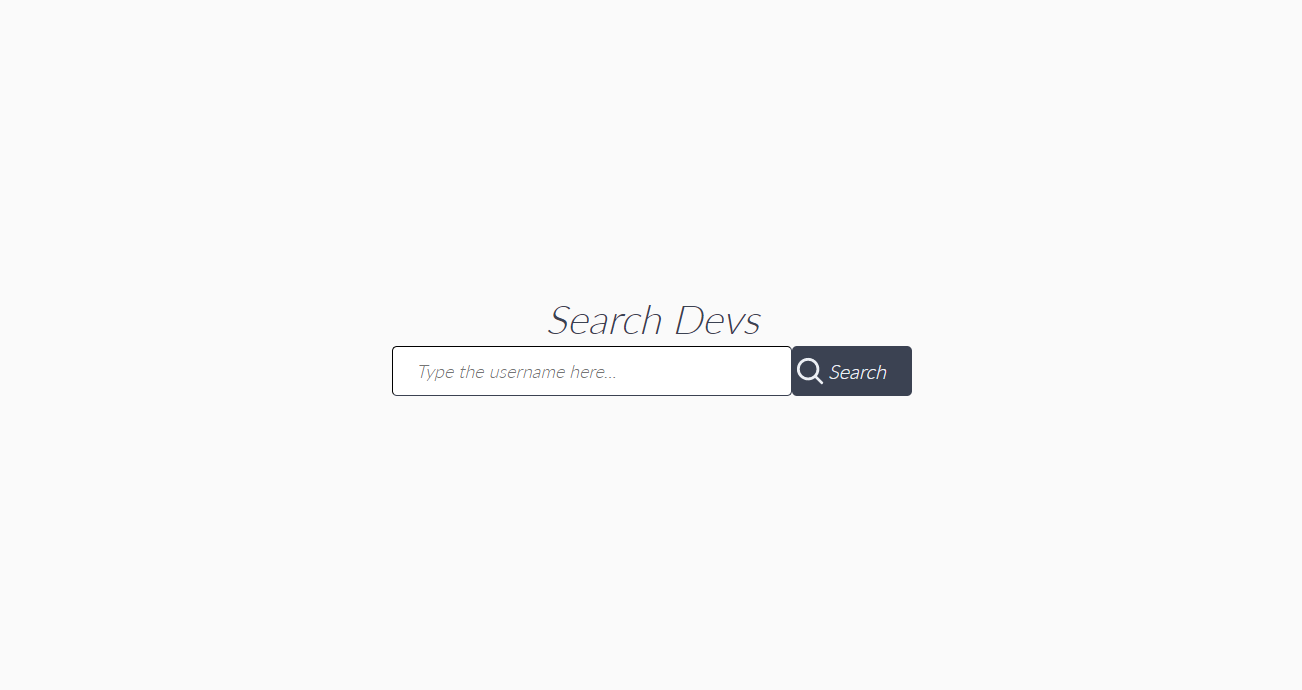
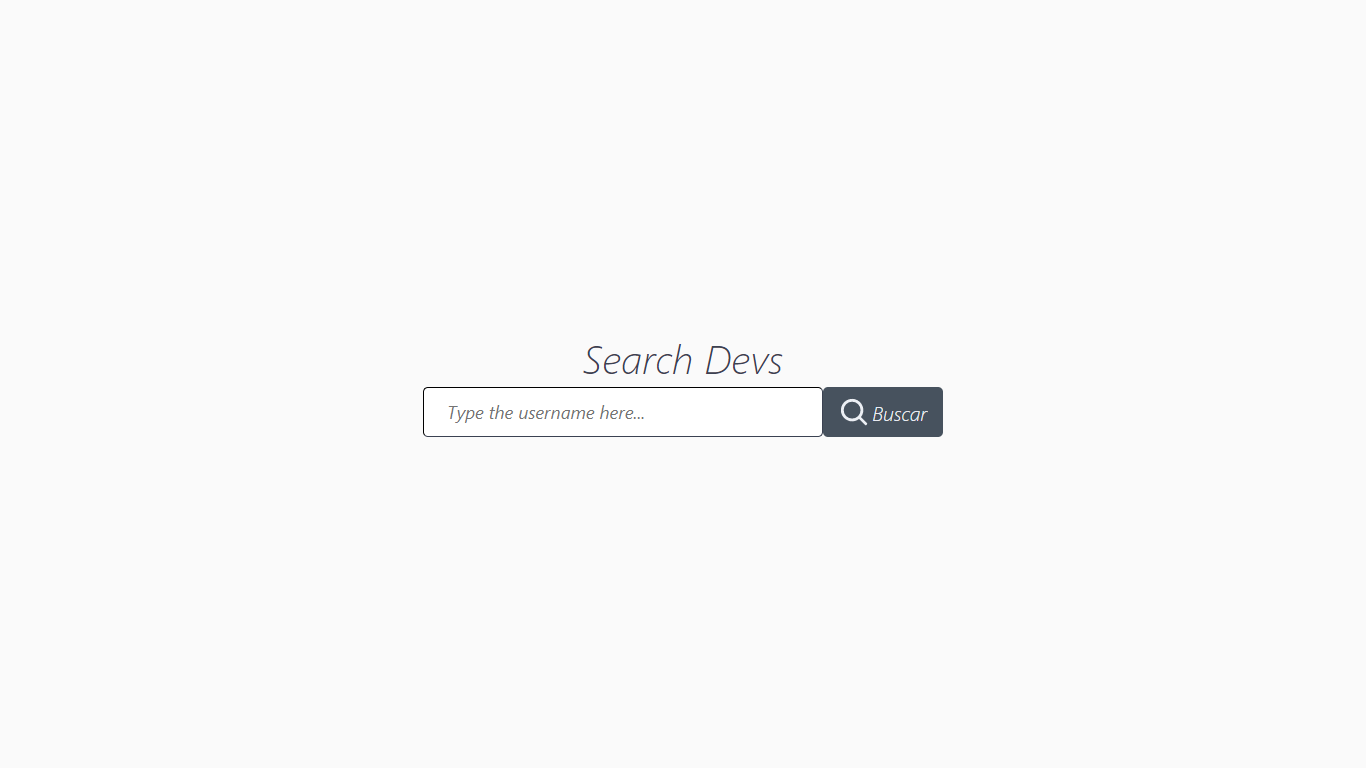
lint command enabled, screenshots updated

Changed region(s): [[0.3072, 0.4261, 0.7066, 0.5783]]

diff --git a/src/pages/Profile/index.tsx b/src/pages/Profile/index.tsx
@@ -4,7 +4,7 @@ import { useEffect, useState } from "react";
 import { useParams } from "react-router-dom";
 import { findRepositories } from "services/RepositoryService";
 import { findUserData } from "services/UserService";
-import { countStars, formatUpdatedAt, sortRepos } from "utils";
+import { countStars, sortRepos } from "utils";
 import * as S from "./styles";
 
 const Profile = () => {
@@ -20,12 +20,12 @@ const Profile = () => {
   const [repositories, setRepositories] = useState<RepositoryProps[]>([]);
 
   useEffect(() => {
-    findRepositories(username).catch(({data})=>
-      setRepositories((repositories) => [...repositories, data])
-    )
-    findUserData(username).catch(({data})=>
-      setUserData(data)
-    );
+    findRepositories(username).then((repoList) => {
+      repoList.forEach((repo: RepositoryProps) =>
+        setRepositories((repositories) => [...repositories, repo])
+      );
+    });
+    findUserData(username).then((user) => setUserData(user));
   }, []);
 
   useEffect(() => {

diff --git a/src/services/UserService.ts b/src/services/UserService.ts
@@ -2,10 +2,17 @@ import { UserProps } from "components/LeftMenu";
 import { axios } from "./axios";
 
 export const findUserData = async (username: string) => {
+  let user: UserProps = {
+    avatar: "",
+    devLogin: "",
+    devName: "",
+    followers: 0,
+    following: 0,
+  }
   await axios
     .get(`/users/${username}`)
     .then(({ data }) => {
-      const user: UserProps = {
+      user = {
         avatar: data.avatar_url,
         devLogin: data.login,
         devName: data.name,
@@ -19,7 +26,7 @@ export const findUserData = async (username: string) => {
         website: data.blog,
       };
 
-      return user;
+
     })
-    .catch(() => null);
+    return user;
 };

diff --git a/public/index.html b/public/index.html
@@ -5,11 +5,13 @@
     <link rel="icon" href="%PUBLIC_URL%/favicon.ico" />
     <meta name="viewport" content="width=device-width, initial-scale=1" />
     <meta name="theme-color" content="#000000" />
-    <meta
-      name="description"
-      content="Find dev informations"
-    />
+    <meta name="description" content="Find dev informations" />
     <link rel="manifest" href="%PUBLIC_URL%/manifest.json" />
+    <link rel="preconnect" href="https://fonts.gstatic.com" />
+    <link
+      href="https://fonts.googleapis.com/css2?family=Lato:ital,wght@0,300;1,300&display=swap"
+      rel="stylesheet"
+    />
 
     <title>Search Devs</title>
   </head>

diff --git a/src/styles/global.ts b/src/styles/global.ts
@@ -1,8 +1,6 @@
 import { createGlobalStyle, css } from "styled-components";
 
 const GlobalStyles = createGlobalStyle`
-@import url('https://fonts.googleapis.com/css2?family=Lato:ital,wght@0,300;1,300&display=swap');
-
   * {
     margin: 0;
     padding: 0;

diff --git a/src/pages/Profile/styles.ts b/src/pages/Profile/styles.ts
@@ -2,7 +2,7 @@ import styled, { css } from "styled-components";
 import media from "styled-media-query";
 
 export const Wrapper = styled.main`
-  ${({ theme }) => css`
+  ${() => css`
     min-height: 100vh;
     display: flex;
 

diff --git a/src/services/RepositoryService.ts b/src/services/RepositoryService.ts
@@ -28,7 +28,6 @@ export const findRepositories = async (username: string) => {
         repositories.push(repository)
       });
     })
-    .catch(() => null);
 
   return repositories;
 };

diff --git a/README.md b/README.md
@@ -60,6 +60,7 @@ Go to http://localhost:3000/ to see the application running.
 
 - `start`: runs your application on `localhost:3000`
 - `build`: creates the production build version
+- `lint`: runs the linter in all components and pages
 
 # :bug: Issues
 
